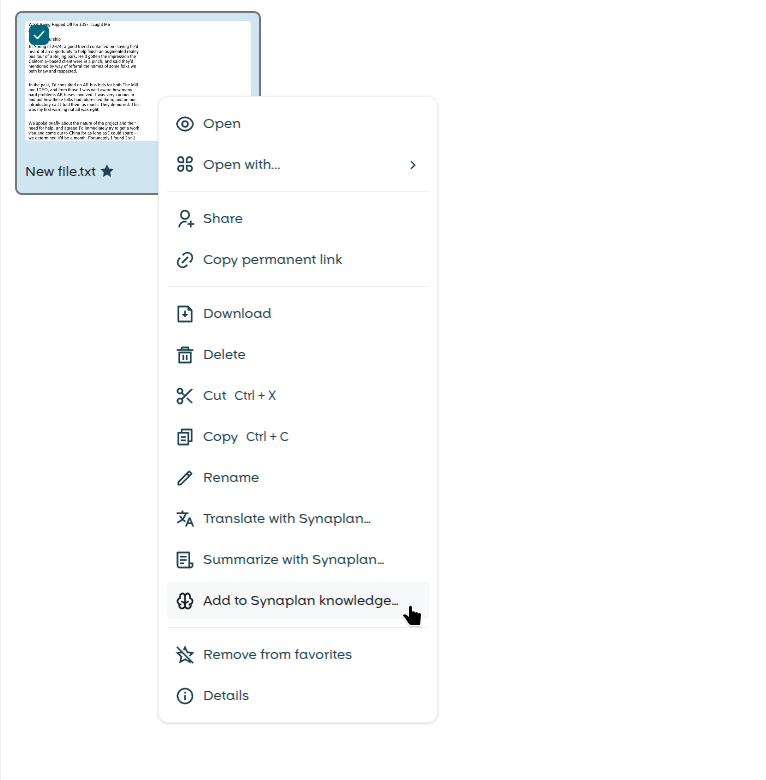
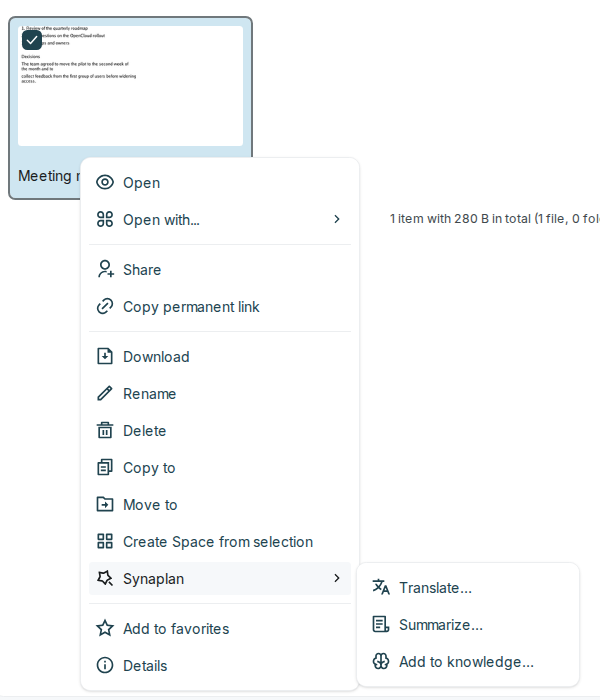
feat: group Synaplan file actions in a context menu submenu (#43)
* feat: group Synaplan file actions in a context menu submenu

Register a single "Synaplan" action with the translate, summarize and knowledge actions as children instead of three top-level entries. The child labels drop the now redundant "with Synaplan".

* docs: refresh README screenshot to show the Synaplan submenu

diff --git a/frontend/tests/unit/useSynaplanActionsExtension.spec.ts b/frontend/tests/unit/useSynaplanActionsExtension.spec.ts
@@ -1,0 +1,71 @@
+import { describe, it, expect, vi, beforeEach } from 'vitest'
+
+const userRef = { user: null as { id: string } | null }
+
+vi.mock('@opencloud-eu/web-pkg', () => ({
+  useModals: () => ({ dispatchModal: vi.fn() }),
+  useMessages: () => ({ showErrorMessage: vi.fn() }),
+  useUserStore: () => userRef
+}))
+
+vi.mock('vue3-gettext', () => ({
+  useGettext: () => ({ $gettext: (s: string) => s })
+}))
+
+import { useSynaplanActionsExtension } from '../../src/extensions/useSynaplanActionsExtension'
+import type { FileActionOptions } from '@opencloud-eu/web-pkg'
+
+function options(overrides: Partial<{ isFolder: boolean; mimeType: string }> = {}) {
+  return {
+    resources: [
+      { id: 'r1', name: 'doc.txt', isFolder: false, mimeType: 'text/plain', ...overrides }
+    ]
+  } as unknown as FileActionOptions
+}
+
+describe('useSynaplanActionsExtension', () => {
+  beforeEach(() => {
+    userRef.user = { id: 'u1' }
+  })
+
+  it('registers a single group against the files context-actions extension point', () => {
+    const ext = useSynaplanActionsExtension()
+    expect(ext.id).toBe('com.synaplan.actions')
+    expect(ext.type).toBe('action')
+    expect(ext.extensionPointIds).toEqual(['global.files.context-actions'])
+    expect(ext.action.name).toBe('synaplan')
+    expect(ext.action.label()).toBe('Synaplan')
+    expect(ext.action.handler).toBeUndefined()
+  })
+
+  it('groups the translate, summarize and knowledge actions', () => {
+    const { action } = useSynaplanActionsExtension()
+    expect(action.children.map((child) => child.name)).toEqual([
+      'translate',
+      'summarize',
+      'add-to-knowledge'
+    ])
+  })
+
+  describe('isVisible', () => {
+    it('shows the group when a child is visible', () => {
+      const { action } = useSynaplanActionsExtension()
+      expect(action.isVisible(options())).toBe(true)
+    })
+
+    it.each([
+      ['a folder', options({ isFolder: true })],
+      ['an unsupported mime type', options({ mimeType: 'image/png' })],
+      ['multiple resources', { resources: [{}, {}] } as unknown as FileActionOptions]
+    ])('hides the group for %s', (_, opts) => {
+      const { action } = useSynaplanActionsExtension()
+      expect(action.isVisible(opts)).toBe(false)
+    })
+
+    it('hides the group when the user is not signed in', () => {
+      userRef.user = null
+      const { action } = useSynaplanActionsExtension()
+      expect(action.isVisible(options())).toBe(false)
+    })
+  })
+})

diff --git a/frontend/src/index.ts b/frontend/src/index.ts
@@ -10,9 +10,7 @@ import translations from '../l10n/translations.json'
 import { useGettext } from 'vue3-gettext'
 import { computed } from 'vue'
 import Synaplan from './views/Synaplan.vue'
-import { useTranslationExtension } from './extensions/useTranslationExtension'
-import { useSummarizeExtension } from './extensions/useSummarizeExtension'
-import { useKnowledgeExtension } from './extensions/useKnowledgeExtension'
+import { useSynaplanActionsExtension } from './extensions/useSynaplanActionsExtension'
 
 const appId = 'synaplan'
 
@@ -44,9 +42,7 @@ export default defineWebApplication({
       icon: 'magic'
     } satisfies ApplicationInformation
 
-    const translationExtension = useTranslationExtension()
-    const summarizeExtension = useSummarizeExtension()
-    const knowledgeExtension = useKnowledgeExtension()
+    const actionsExtension = useSynaplanActionsExtension()
 
     const menuItem: AppMenuItemExtension = {
       id: `app.${appInfo.id}.menuItem`,
@@ -58,12 +54,7 @@ export default defineWebApplication({
       ...(synaplanUrl ? { url: synaplanUrl } : { path: urlJoin(appInfo.id) })
     }
 
-    const extensions = computed<Extension[]>(() => [
-      menuItem,
-      translationExtension,
-      summarizeExtension,
-      knowledgeExtension
-    ])
+    const extensions = computed<Extension[]>(() => [menuItem, actionsExtension])
 
     return {
       appInfo,

diff --git a/frontend/tests/e2e/translation.spec.ts b/frontend/tests/e2e/translation.spec.ts
@@ -1,6 +1,7 @@
 import { test, expect, Page } from '@playwright/test'
 import { fileURLToPath } from 'url'
 import { getAccessToken, loginAsUser, logout } from '../../support/helpers/authHelper'
+import { openSynaplanMenu } from '../../support/helpers/contextMenuHelper'
 import {
   deleteFileQuiet,
   ensureFolder,
@@ -68,7 +69,7 @@ test('translate file context action is visible for the signed-in user', async ({
   await navigateToTestsFolder(userPage)
 
   const row = await findFileRow(userPage, baseName)
-  await row.click({ button: 'right' })
+  await openSynaplanMenu(row)
 
   await expect(userPage.locator('.oc-files-actions-translate-trigger')).toBeVisible({
     timeout: 10_000
@@ -124,7 +125,7 @@ test('translate a PDF file end-to-end', async ({ request }) => {
  */
 async function runTranslationFlow(page: Page, fileName: string, languageLabel: string) {
   const row = await findFileRow(page, fileName)
-  await row.click({ button: 'right' })
+  await openSynaplanMenu(row)
 
   // Target the action by its stable OC trigger class instead of
   // by-text — by-text occasionally flakes when the context menu

diff --git a/frontend/tests/e2e/knowledge.spec.ts b/frontend/tests/e2e/knowledge.spec.ts
@@ -1,6 +1,7 @@
 import { test, expect, Page } from '@playwright/test'
 import { fileURLToPath } from 'url'
 import { getAccessToken, loginAsUser, logout } from '../../support/helpers/authHelper'
+import { openSynaplanMenu } from '../../support/helpers/contextMenuHelper'
 import {
   deleteFileQuiet,
   ensureFolder,
@@ -77,7 +78,7 @@ test('add-to-knowledge context action is visible for the signed-in user', async 
   await navigateToTestsFolder(userPage)
 
   const row = await findFileRow(userPage, baseName)
-  await row.click({ button: 'right' })
+  await openSynaplanMenu(row)
 
   await expect(userPage.locator('.oc-files-actions-add-to-knowledge-trigger')).toBeVisible({
     timeout: 10_000
@@ -126,7 +127,7 @@ test('add a PDF file to a knowledge group end-to-end', async ({ request }) => {
 
 async function runKnowledgeFlow(page: Page, fileName: string, groupKey: string) {
   const row = await findFileRow(page, fileName)
-  await row.click({ button: 'right' })
+  await openSynaplanMenu(row)
 
   await page.locator('.oc-files-actions-add-to-knowledge-trigger').click()
 

diff --git a/frontend/tests/e2e/summarize.spec.ts b/frontend/tests/e2e/summarize.spec.ts
@@ -1,6 +1,7 @@
 import { test, expect, Page } from '@playwright/test'
 import { fileURLToPath } from 'url'
 import { getAccessToken, loginAsUser, logout } from '../../support/helpers/authHelper'
+import { openSynaplanMenu } from '../../support/helpers/contextMenuHelper'
 import {
   deleteFileQuiet,
   ensureFolder,
@@ -55,7 +56,7 @@ test('summarize file context action is visible for the signed-in user', async ({
   await navigateToTestsFolder(userPage)
 
   const row = await findFileRow(userPage, baseName)
-  await row.click({ button: 'right' })
+  await openSynaplanMenu(row)
 
   await expect(userPage.locator('.oc-files-actions-summarize-trigger')).toBeVisible({
     timeout: 10_000
@@ -108,7 +109,7 @@ async function runSummarizeFlow(
   lengthLabel: string
 ) {
   const row = await findFileRow(page, fileName)
-  await row.click({ button: 'right' })
+  await openSynaplanMenu(row)
 
   await page.locator('.oc-files-actions-summarize-trigger').click()
 

diff --git a/frontend/src/extensions/useSynaplanActionsExtension.ts b/frontend/src/extensions/useSynaplanActionsExtension.ts
@@ -1,0 +1,28 @@
+import { type ActionExtension, type FileActionOptions } from '@opencloud-eu/web-pkg'
+import { useGettext } from 'vue3-gettext'
+import { useTranslationExtension } from './useTranslationExtension'
+import { useSummarizeExtension } from './useSummarizeExtension'
+import { useKnowledgeExtension } from './useKnowledgeExtension'
+
+export const useSynaplanActionsExtension = (): ActionExtension => {
+  const { $gettext } = useGettext()
+
+  const children = [
+    useTranslationExtension(),
+    useSummarizeExtension(),
+    useKnowledgeExtension()
+  ].map(({ action }) => action)
+
+  return {
+    id: 'com.synaplan.actions',
+    type: 'action',
+    extensionPointIds: ['global.files.context-actions'],
+    action: {
+      name: 'synaplan',
+      icon: 'magic',
+      label: () => $gettext('Synaplan'),
+      children,
+      isVisible: (options: FileActionOptions) => children.some((child) => child.isVisible(options))
+    }
+  }
+}

diff --git a/frontend/tests/unit/useKnowledgeExtension.spec.ts b/frontend/tests/unit/useKnowledgeExtension.spec.ts
@@ -38,11 +38,10 @@ describe('useKnowledgeExtension', () => {
     userRef.user = { id: 'u1' }
   })
 
-  it('registers against the files context-actions extension point', () => {
+  it('describes its action', () => {
     const ext = useKnowledgeExtension()
     expect(ext.id).toBe('com.synaplan.knowledge')
     expect(ext.type).toBe('action')
-    expect(ext.extensionPointIds).toContain('global.files.context-actions')
     expect(ext.action.class).toBe('oc-files-actions-add-to-knowledge-trigger')
     expect(ext.action.icon).toBe('brain')
     expect(ext.action.iconFillType).toBe('line')

diff --git a/frontend/tests/unit/useSummarizeExtension.spec.ts b/frontend/tests/unit/useSummarizeExtension.spec.ts
@@ -38,11 +38,10 @@ describe('useSummarizeExtension', () => {
     userRef.user = { id: 'u1' }
   })
 
-  it('registers against the files context-actions extension point', () => {
+  it('describes its action', () => {
     const ext = useSummarizeExtension()
     expect(ext.id).toBe('com.synaplan.summarize')
     expect(ext.type).toBe('action')
-    expect(ext.extensionPointIds).toContain('global.files.context-actions')
     expect(ext.action.class).toBe('oc-files-actions-summarize-trigger')
     expect(ext.action.icon).toBe('file-list-3')
     expect(ext.action.iconFillType).toBe('line')

diff --git a/frontend/src/extensions/useKnowledgeExtension.ts b/frontend/src/extensions/useKnowledgeExtension.ts
@@ -43,12 +43,11 @@ export const useKnowledgeExtension = (): ActionExtension => {
   return {
     id: 'com.synaplan.knowledge',
     type: 'action',
-    extensionPointIds: ['global.files.context-actions'],
     action: {
       name: 'add-to-knowledge',
       icon: 'brain',
       iconFillType: 'line',
-      label: () => $gettext('Add to Synaplan knowledge…'),
+      label: () => $gettext('Add to knowledge…'),
       class: 'oc-files-actions-add-to-knowledge-trigger',
       handler,
       isVisible: (options: FileActionOptions) => isSingleSupportedFile(userStore.user, options)

diff --git a/frontend/src/extensions/useTranslationExtension.ts b/frontend/src/extensions/useTranslationExtension.ts
@@ -43,12 +43,11 @@ export const useTranslationExtension = (): ActionExtension => {
   return {
     id: 'com.synaplan.translation',
     type: 'action',
-    extensionPointIds: ['global.files.context-actions'],
     action: {
       name: 'translate',
       icon: 'translate-2',
       iconFillType: 'none',
-      label: () => $gettext('Translate with Synaplan…'),
+      label: () => $gettext('Translate…'),
       class: 'oc-files-actions-translate-trigger',
       handler,
       isVisible: (options: FileActionOptions) => isSingleSupportedFile(userStore.user, options)

diff --git a/frontend/src/extensions/useSummarizeExtension.ts b/frontend/src/extensions/useSummarizeExtension.ts
@@ -43,12 +43,11 @@ export const useSummarizeExtension = (): ActionExtension => {
   return {
     id: 'com.synaplan.summarize',
     type: 'action',
-    extensionPointIds: ['global.files.context-actions'],
     action: {
       name: 'summarize',
       icon: 'file-list-3',
       iconFillType: 'line',
-      label: () => $gettext('Summarize with Synaplan…'),
+      label: () => $gettext('Summarize…'),
       class: 'oc-files-actions-summarize-trigger',
       handler,
       isVisible: (options: FileActionOptions) => isSingleSupportedFile(userStore.user, options)

diff --git a/frontend/tests/unit/useTranslationExtension.spec.ts b/frontend/tests/unit/useTranslationExtension.spec.ts
@@ -52,11 +52,10 @@ describe('useTranslationExtension', () => {
     userRef.user = { id: 'u1' }
   })
 
-  it('registers itself against the files context-actions extension point', () => {
+  it('describes its action', () => {
     const ext = useTranslationExtension()
     expect(ext.id).toBe('com.synaplan.translation')
     expect(ext.type).toBe('action')
-    expect(ext.extensionPointIds).toContain('global.files.context-actions')
     expect(ext.action.class).toBe('oc-files-actions-translate-trigger')
   })
 
